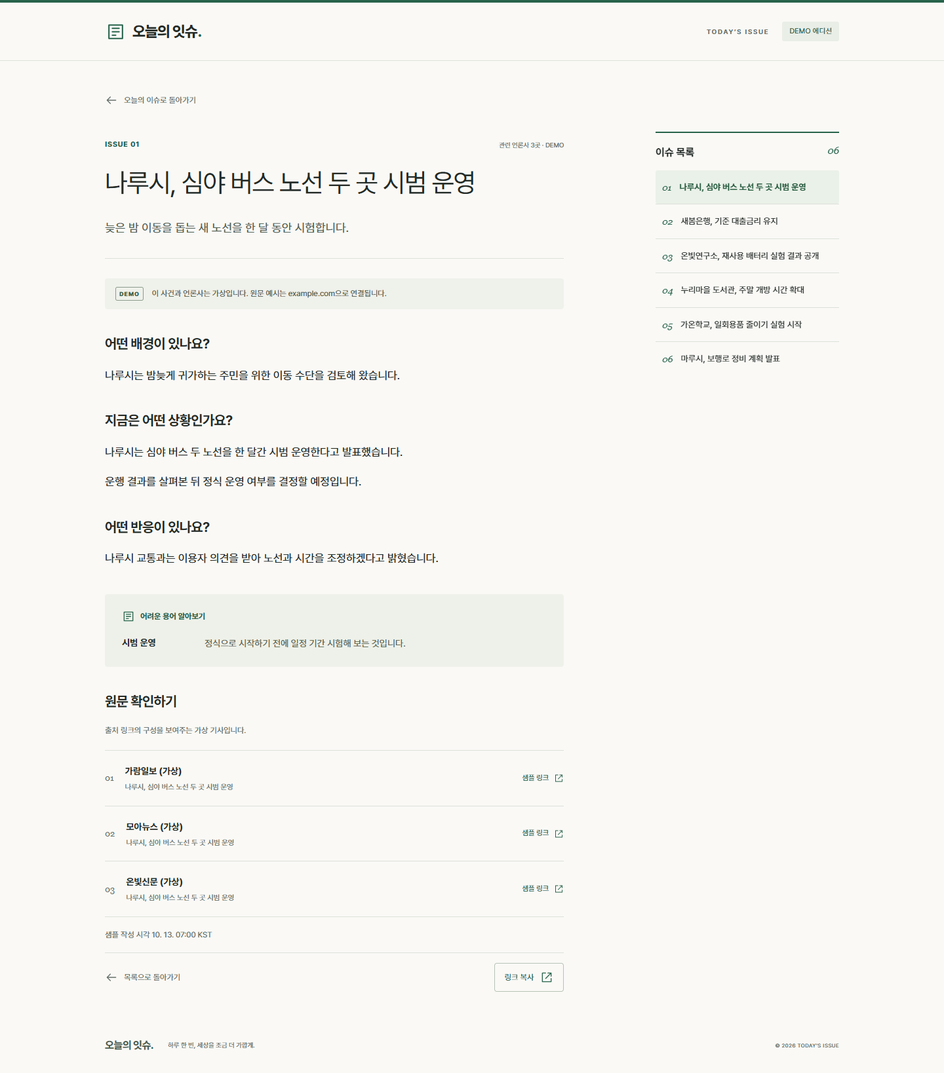
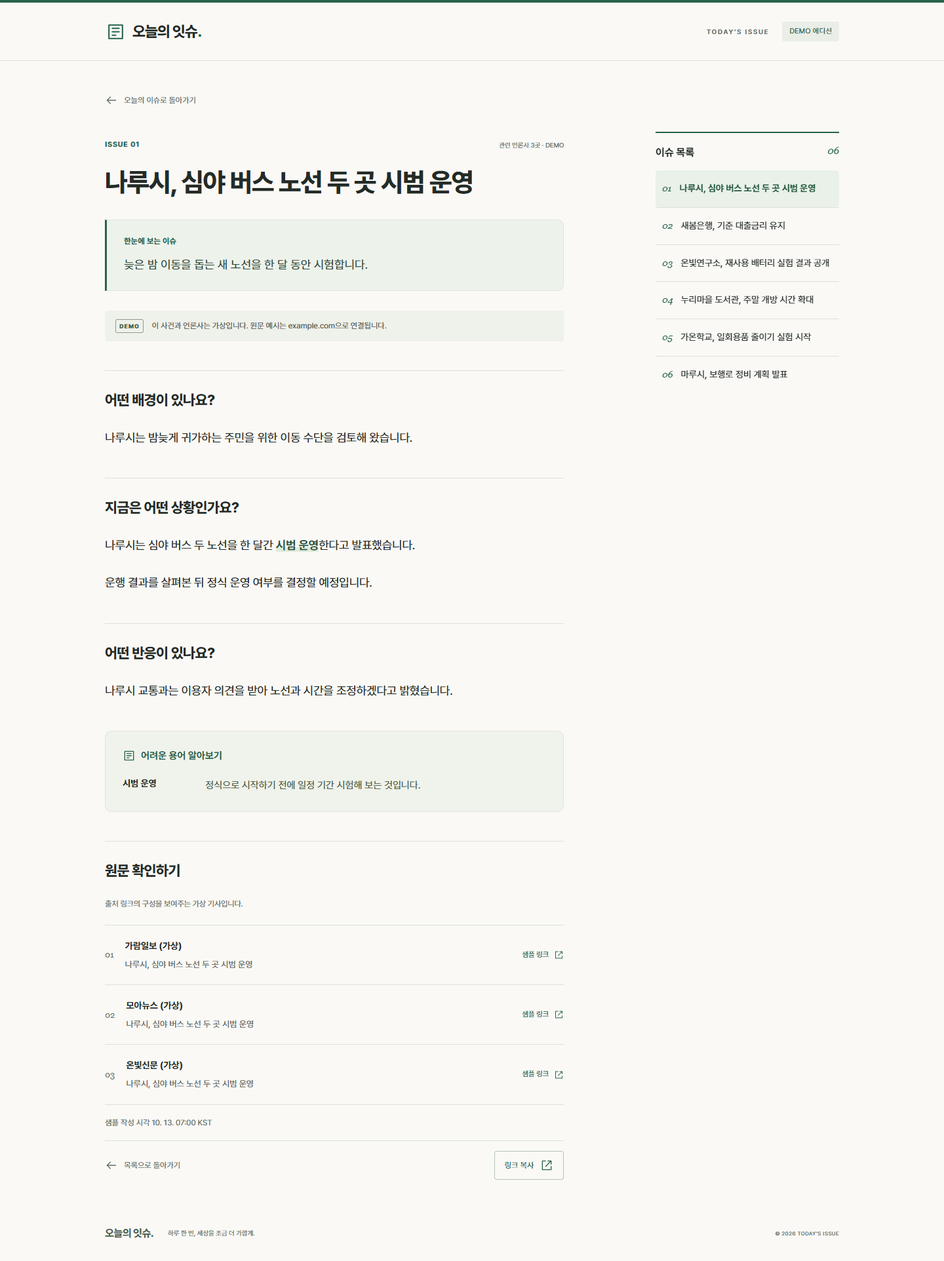
Improve article readability with summary panels, glossary emphasis, and clear attribution

diff --git a/src/styles.css b/src/styles.css
@@ -49,7 +49,7 @@ h1:focus, main:focus { outline: none; }
 .issue-number { font: italic 27px/1 Georgia, serif; color: var(--green); }
 .card-kicker { font-size: 8px; color: #646f66; letter-spacing: 1.2px; }
 .issue-card h3 { margin: 0 0 13px; font-size: 21px; font-weight: 700; line-height: 1.5; letter-spacing: -.8px; word-break: keep-all; overflow-wrap: anywhere; }
-.issue-card > p { font-size: 13px; line-height: 1.8; margin: 0 0 27px; color: var(--muted); word-break: keep-all; }
+.issue-card > p { font-size: 15px; line-height: 1.85; margin: 0 0 27px; color: #59665d; word-break: keep-all; overflow-wrap: anywhere; }
 .card-bottom { margin-top: auto; display: flex; align-items: center; justify-content: space-between; gap: 8px; padding-top: 16px; border-top: 1px solid #e7e9e2; color: var(--muted); font-size: 10px; }
 .card-bottom strong { font-weight: 600; color: #4c5a50; }
 .card-action { color: var(--green); display: flex; align-items: center; gap: 8px; }
@@ -69,14 +69,14 @@ h1:focus, main:focus { outline: none; }
 .detail-layout { display: grid; grid-template-columns: minmax(0, 700px) minmax(0, 280px); justify-content: space-between; gap: 64px; align-items: start; }
 .detail-layout .reading-shell { width: 100%; margin: 0; }
 .article-photo { margin: 0 0 32px; }
-.article-photo img { height: auto; max-height: 460px; object-fit: contain; border-radius: 4px; }
+.article-photo img { height: auto; max-height: 460px; object-fit: contain; border-radius: 10px; }
 .article-photo figcaption { margin-top: 8px; font-size: 11px; color: var(--muted); }
 .issue-sidebar { position: sticky; top: 28px; margin-top: 108px; border-top: 2px solid var(--green); padding-top: 18px; }
 .issue-sidebar h2 { display: flex; justify-content: space-between; margin: 0 0 15px; font-size: 16px; font-weight: 700; }
 .issue-sidebar h2 > span { color: var(--green); font: italic 15px Georgia, serif; }
 .issue-sidebar ol { list-style: none; margin: 0; padding: 0; }
 .issue-sidebar li + li { border-top: 1px solid var(--line); }
-.issue-sidebar a { display: flex; align-items: flex-start; gap: 12px; padding: 15px 10px; font-size: 13px; line-height: 1.65; word-break: keep-all; overflow-wrap: anywhere; border-radius: 3px; }
+.issue-sidebar a { display: flex; align-items: flex-start; gap: 12px; padding: 16px 10px; font-size: 14px; line-height: 1.7; word-break: keep-all; overflow-wrap: anywhere; border-radius: 5px; }
 .issue-sidebar a:hover { background: #f0f2eb; }
 .issue-sidebar a[aria-current="page"] { background: #eaf1e8; color: #23583c; font-weight: 650; }
 .sidebar-number { flex-shrink: 0; padding-top: 3px; color: var(--green); font: italic 14px Georgia, serif; }
@@ -87,29 +87,37 @@ h1:focus, main:focus { outline: none; }
 .article-header { margin: 38px 0 30px; }
 .article-header .eyebrow { justify-content: space-between; margin-bottom: 19px; font-size: 11px; }
 .article-meta { color: var(--muted); font-size: 10px; font-weight: 400; letter-spacing: 0; }
-.article-header h1 { font-size: clamp(28px, 4vw, 40px); line-height: 1.5; letter-spacing: -1.5px; margin: 0 0 23px; word-break: keep-all; }
-.article-lead { font-size: 18px; line-height: 1.8; color: #526356; margin: 0; padding-bottom: 30px; border-bottom: 1px solid var(--line); word-break: keep-all; }
+.article-header h1 { font-size: clamp(30px, 4vw, 40px); font-weight: 750; line-height: 1.45; letter-spacing: -1.3px; margin: 0 0 28px; word-break: keep-all; overflow-wrap: anywhere; text-wrap: balance; }
+.article-summary { padding: 23px 26px; background: #edf3eb; border: 1px solid #dce8db; border-left: 3px solid var(--green); border-radius: 0 10px 10px 0; }
+.summary-label { display: block; margin-bottom: 10px; font-size: 12px; font-weight: 700; letter-spacing: .2px; color: var(--green); }
+.article-lead { font-size: 18px; line-height: 1.85; color: #344c3b; margin: 0; word-break: keep-all; overflow-wrap: anywhere; }
 .detail-demo { margin-bottom: 33px; }
-.reading-section { margin-top: 37px; }
-.reading-section h2 { font-size: 21px; font-weight: 700; margin: 0 0 17px; letter-spacing: -.6px; }
-.reading-section p { font-size: 17px; line-height: 1.85; margin: 0 0 14px; word-break: keep-all; overflow-wrap: anywhere; }
+.reading-section { margin-top: 44px; padding-top: 28px; border-top: 1px solid var(--line); }
+.reading-section h2 { font-size: 22px; line-height: 1.5; font-weight: 750; margin: 0 0 23px; letter-spacing: -.6px; word-break: keep-all; }
+.reading-section p { font-size: 18px; line-height: 1.95; margin: 0; word-break: keep-all; overflow-wrap: anywhere; letter-spacing: -.2px; }
+.statement-stack { display: grid; gap: 22px; }
+.statement-claim { padding: 20px 23px; background: #f1f3ed; border-radius: 10px; border-left: 2px solid #9cb69e; }
+.claim-meta { display: flex; align-items: baseline; gap: 9px; margin-bottom: 11px; color: #56644f; font-size: 12px; line-height: 1.7; word-break: keep-all; overflow-wrap: anywhere; }
+.term-emphasis { font-weight: 650; color: #28543c; box-shadow: inset 0 -.4em #e0ebdb; }
+.article-summary .term-emphasis { box-shadow: none; font-weight: 700; }
 .citations { display: inline-flex; gap: 3px; vertical-align: baseline; margin-left: 5px; }
 .citations a { color: var(--green); font-size: 10px; font-weight: 600; padding: 3px; text-decoration: underline; text-underline-offset: 2px; }
-.claim-tag { display: inline; font-size: 11px; background: #edf1e9; color: #466044; padding: 3px 6px; margin-right: 7px; border-radius: 3px; }
-.terminology { background: #eef1e9; border-radius: 4px; padding: 24px 26px; margin-top: 38px; }
-.terminology .eyebrow { margin-bottom: 20px; font-size: 12px; letter-spacing: 0; }
+.claim-tag { display: inline-block; flex-shrink: 0; font-size: 11px; font-weight: 700; background: #e0e8db; color: #3e583c; padding: 2px 7px; border-radius: 4px; }
+.terminology { background: #f0f3eb; border: 1px solid #e0e7da; border-radius: 10px; padding: 26px; margin-top: 44px; }
+.terminology h2 { display: flex; align-items: center; gap: 8px; margin: 0 0 21px; font-size: 15px; font-weight: 700; color: var(--green); }
 .terminology dl { margin: 0; }
-.terminology dl > div { display: grid; grid-template-columns: 110px 1fr; gap: 16px; margin-bottom: 13px; }
-.terminology dl > div:last-child { margin-bottom: 0; }
+.terminology dl > div { display: grid; grid-template-columns: 110px 1fr; gap: 16px; padding-bottom: 17px; margin-bottom: 17px; border-bottom: 1px solid #dce4d5; }
+.terminology dl > div:last-child { margin-bottom: 0; padding-bottom: 0; border: 0; }
 .terminology dt { font-size: 14px; font-weight: 650; }
-.terminology dd { margin: 0; font-size: 14px; line-height: 1.7; color: #586452; }
+.terminology dd { margin: 0; font-size: 15px; line-height: 1.8; color: #4e5d49; word-break: keep-all; overflow-wrap: anywhere; }
 .sources-section .section-description { font-size: 12px; color: var(--muted); margin-bottom: 19px; }
 .source-list { border-top: 1px solid var(--line); }
 .source-link { display: flex; align-items: center; gap: 17px; padding: 19px 0; border-bottom: 1px solid var(--line); }
 .source-link:hover { background: #f2f3ed; }
 .source-index { font: 13px Georgia, serif; color: var(--muted); }
 .source-link strong { font-size: 14px; font-weight: 650; }
-.source-title { display: block; font-size: 11px; color: var(--muted); line-height: 1.6; margin-top: 4px; }
+.source-title { display: block; font-size: 13px; color: #59665d; line-height: 1.8; margin-top: 5px; word-break: keep-all; overflow-wrap: anywhere; }
+.source-link > span:nth-child(2) { min-width: 0; }
 .source-open { margin-left: auto; flex-shrink: 0; display: flex; align-items: center; gap: 8px; font-size: 11px; color: var(--green); }
 .source-open svg { width: 15px; }
 .ranking-details { margin: 27px 0 36px; color: var(--muted); font-size: 12px; }
@@ -137,3 +145,15 @@ h1:focus, main:focus { outline: none; }
 @media (max-width: 1023px) { .hero h1 { font-size: 39px; } .shell { width: calc(100% - 56px); } .issue-card { min-height: 270px; } }
 @media (max-width: 639px) { .shell { width: calc(100% - 40px); } .header-inner { height: 72px; } .brand { font-size: 21px; } .edition-label { display: none; } .mode-tag { font-size: 10px; } .hero { padding: 38px 0 27px; } .hero h1 { font-size: 29px; letter-spacing: -1.5px; } .hero .eyebrow { font-size: 10px; margin-bottom: 17px; } .hero-description { font-size: 12px; margin-top: 16px; } .mobile-break { display: block; } .date-block { display: none; } .demo-notice { align-items: flex-start; gap: 10px; padding: 12px; margin-bottom: 27px; } .demo-notice p { font-size: 11px; } .section-heading { align-items: flex-start; gap: 8px; padding-top: 21px; flex-direction: column; } .section-heading h2 { font-size: 18px; } .reading-time { font-size: 10px; } .issue-card { padding: 25px 23px 20px; min-height: 260px; } .card-top { margin-bottom: 21px; } .issue-card h3 { font-size: 21px; } .issue-card > p { font-size: 14px; } .card-bottom { font-size: 11px; } .edition-meta { flex-direction: column; line-height: 1.5; font-size: 10px; } .editorial-note { margin-block: 35px; gap: 14px; padding-block: 25px; } .editorial-note h2 { font-size: 15px; } .editorial-note p { font-size: 11px; } .note-symbol { font-size: 48px; } .note-wordmark { display: none; } .site-footer { flex-wrap: wrap; gap: 10px 15px; } .site-footer > span { width: 100%; margin: 0; } .reading-shell { padding-top: 21px; } .article-header { margin-top: 27px; } .article-header h1 { font-size: 29px; letter-spacing: -.9px; } .article-lead { font-size: 16px; } .reading-section h2 { font-size: 19px; } .reading-section p { font-size: 16px; } .terminology { padding: 21px 19px; } .terminology dl > div { grid-template-columns: 1fr; gap: 5px; } .source-link { gap: 10px; } .source-title { font-size: 10px; } .source-open { font-size: 10px; gap: 4px; } .state-panel h1 { font-size: 26px; } }
 @media (prefers-reduced-motion: reduce) { *, *::before, *::after { transition: none !important; scroll-behavior: auto !important; } }
+@media (max-width: 639px) {
+  .issue-card > p { font-size: 15px; line-height: 1.85; }
+  .article-summary { padding: 19px 20px; }
+  .article-lead { font-size: 17px; line-height: 1.85; }
+  .reading-section { margin-top: 34px; padding-top: 23px; }
+  .reading-section h2 { font-size: 20px; margin-bottom: 19px; }
+  .reading-section p { font-size: 17px; line-height: 1.95; }
+  .statement-stack { gap: 19px; }
+  .statement-claim { padding: 17px 18px; }
+  .claim-meta { align-items: flex-start; font-size: 11px; }
+  .source-title { font-size: 12px; line-height: 1.8; }
+}

diff --git a/src/pages/IssuePage.tsx b/src/pages/IssuePage.tsx
@@ -4,26 +4,32 @@ import { formatTime, publisherCount } from '../lib/data';
 import { Icon } from '../components/Icon';
 import { SourceLinks } from '../components/SourceLinks';
 import { ArticlePhoto } from '../components/ArticlePhoto';
+import { TermEmphasis } from '../components/TermEmphasis';
 
-function ReadingSection({ title, statements }: { title: string; statements: Statement[] }) {
+function ReadingSection({ title, statements, terms }: { title: string; statements: Statement[]; terms: string[] }) {
   if (!statements.length) return null;
-  return <section className="reading-section"><h2>{title}</h2>{statements.map(statement => <p key={statement.id}>{statement.kind === 'claim' && <span className="claim-tag">{statement.attribution}의 주장</span>}{statement.text}</p>)}</section>;
+  return <section className="reading-section"><h2>{title}</h2><div className="statement-stack">{statements.map(statement =>
+    <div key={statement.id} className={statement.kind === 'claim' ? 'statement statement-claim' : 'statement'}>
+      {statement.kind === 'claim' && <div className="claim-meta"><span className="claim-tag">주장</span><span>{statement.attribution}</span></div>}
+      <p><TermEmphasis text={statement.text} terms={terms} /></p>
+    </div>)}</div></section>;
 }
 export function IssuePage({ issue, edition }: { issue: Issue; edition: Edition }) {
   const [copyStatus, setCopyStatus] = useState('');
+  const terms = issue.terminology.map(item => item.term);
   async function copyLink() {
     try { await navigator.clipboard.writeText(location.href); setCopyStatus('링크를 복사했습니다.'); }
     catch { setCopyStatus('주소창의 URL을 복사해 공유할 수 있습니다.'); }
   }
   return <div className="detail-layout shell"><article className="reading-shell">
     <a href="#/" className="back-link"><Icon name="back" />오늘의 이슈로 돌아가기</a>
-    <header className="article-header"><p className="eyebrow">ISSUE {String(issue.rank).padStart(2, '0')}<span className="article-meta">관련 언론사 {publisherCount(issue)}곳{edition.mode === 'demo' && ' · DEMO'}</span></p><h1 id="page-title" tabIndex={-1}>{issue.title}</h1><p className="article-lead">{issue.oneLineSummary}</p></header>
+    <header className="article-header"><p className="eyebrow">ISSUE {String(issue.rank).padStart(2, '0')}<span className="article-meta">관련 언론사 {publisherCount(issue)}곳{edition.mode === 'demo' && ' · DEMO'}</span></p><h1 id="page-title" tabIndex={-1}>{issue.title}</h1><div className="article-summary"><span className="summary-label">한눈에 보는 이슈</span><p className="article-lead"><TermEmphasis text={issue.oneLineSummary} terms={terms} /></p></div></header>
     <ArticlePhoto issue={issue} detail />
     {edition.mode === 'demo' && <aside className="demo-notice detail-demo"><span className="notice-label">DEMO</span><p>이 사건과 언론사는 가상입니다. 원문 예시는 example.com으로 연결됩니다.</p></aside>}
-    <ReadingSection title="어떤 배경이 있나요?" statements={issue.background} />
-    <ReadingSection title="지금은 어떤 상황인가요?" statements={issue.currentSituation} />
-    <ReadingSection title="어떤 반응이 있나요?" statements={issue.response} />
-    {issue.terminology.length > 0 && <section className="terminology"><p className="eyebrow"><Icon name="book" />어려운 용어 알아보기</p><dl>{issue.terminology.map(term => <div key={term.term}><dt>{term.term}</dt><dd>{term.explanation}</dd></div>)}</dl></section>}
+    <ReadingSection title="어떤 배경이 있나요?" statements={issue.background} terms={terms} />
+    <ReadingSection title="지금은 어떤 상황인가요?" statements={issue.currentSituation} terms={terms} />
+    <ReadingSection title="어떤 반응이 있나요?" statements={issue.response} terms={terms} />
+    {issue.terminology.length > 0 && <section className="terminology"><h2><Icon name="book" />어려운 용어 알아보기</h2><dl>{issue.terminology.map(term => <div key={term.term}><dt>{term.term}</dt><dd>{term.explanation}</dd></div>)}</dl></section>}
     <section className="reading-section sources-section"><h2>원문 확인하기</h2><p className="section-description">{edition.mode === 'demo' ? '출처 링크의 구성을 보여주는 가상 기사입니다.' : '서로 다른 보도를 직접 읽고 맥락을 확인해 보세요.'}</p><SourceLinks sources={issue.sources} demo={edition.mode === 'demo'} /></section>
     <p className="small-note">{edition.mode === 'demo' ? '샘플 작성 시각' : '마지막 업데이트'} {formatTime(edition.updatedAt)} KST</p><div className="article-bottom"><a href="#/" className="back-link"><Icon name="back" />목록으로 돌아가기</a><button onClick={copyLink} className="copy-button">링크 복사 <Icon name="external" /></button></div><p className="copy-status" role="status">{copyStatus}</p>
   </article><nav className="issue-sidebar" aria-label="이슈 목록">

diff --git a/src/pages/HomePage.tsx b/src/pages/HomePage.tsx
@@ -12,7 +12,7 @@ export function HomePage({ edition }: { edition: Edition }) {
     <section className="issues-section" aria-labelledby="issues-title">
       <div className="section-heading"><h2 id="issues-title">{edition.mode === 'demo' ? '오늘의 이슈 미리보기' : '오늘의 주요 보도 이슈'} <span>{String(edition.issues.length).padStart(2, '0')}</span></h2><span className="reading-time"><Icon name="clock" />목표 읽기 시간 약 5분</span></div>
       {edition.issues.length > 0 ? <div className="grid grid-cols-1 md:grid-cols-2 lg:grid-cols-3 gap-5 issue-grid">{edition.issues.map(issue => <IssueCard key={issue.id} issue={issue} />)}</div> : <div className="empty-state"><Icon name="book" /><h3>아직 준비된 이슈가 없습니다</h3><p>확인할 수 있는 이슈가 모이면 이곳에 전해드릴게요.</p></div>}
-      <div className="edition-meta"><span>{edition.mode === 'demo' ? '샘플 작성 시각' : '마지막 업데이트'} <time dateTime={edition.updatedAt}>{formatTime(edition.updatedAt)} KST</time></span><span>하루 한 번, 오전 7시에 만나요.</span></div>
+      <div className="edition-meta"><span>{edition.mode === 'demo' ? '샘플 작성 시각' : '마지막 업데이트'} <time dateTime={edition.updatedAt}>{formatTime(edition.updatedAt)} KST</time></span><span>{windowLabel(edition)} · {edition.mode === 'demo' ? '가상 이슈 미리보기' : '최신 기사 발행 순'}</span></div>
     </section>
     <section className="editorial-note" aria-label="편집 원칙"><span className="note-symbol">“</span><div><h2>많이 읽는 것보다, 잘 이해하는 것.</h2><p>같은 사건은 하나로 모으고, 어려운 말은 풀어서 설명합니다.<br />사실과 주장을 구분하고, 모든 이야기의 출처를 함께 전합니다.</p></div><span className="note-wordmark">LESS NEWS.<br />MORE CONTEXT.</span></section>
   </div>;

diff --git a/src/components/TermEmphasis.tsx b/src/components/TermEmphasis.tsx
@@ -1,0 +1,16 @@
+export function TermEmphasis({ text, terms }: { text: string; terms: string[] }) {
+  const unique = [...new Set(terms.map(term => term.trim()).filter(term => term.length >= 2))]
+    .sort((a, b) => b.length - a.length).slice(0, 10);
+  if (!unique.length) return <>{text}</>;
+  const escape = (term: string) => term.replace(/[.*+?^${}()|[\]\\]/g, '\\$&');
+  const pattern = new RegExp(`(${unique.map(term => /^[\w .()-]+$/.test(term)
+    ? `(?<![A-Za-z0-9])${escape(term)}(?![A-Za-z0-9])` : escape(term)).join('|')})`, 'g');
+  const highlighted = new Set<string>();
+  return <>{text.split(pattern).map((part, index) => {
+    if (unique.includes(part) && !highlighted.has(part) && highlighted.size < 3) {
+      highlighted.add(part);
+      return <strong className="term-emphasis" key={index}>{part}</strong>;
+    }
+    return part;
+  })}</>;
+}

diff --git a/src/components/TermEmphasis.test.tsx b/src/components/TermEmphasis.test.tsx
@@ -1,0 +1,10 @@
+import { render } from '@testing-library/react';
+import { expect, test } from 'vitest';
+import { TermEmphasis } from './TermEmphasis';
+
+test('glossary emphasis preserves the complete text, literal symbols and other words', () => {
+  const text = 'AI는 AIB와 다르며 C++처럼 기호가 있는 용어도 그대로 읽습니다. AI를 다시 언급합니다.';
+  const { container } = render(<p><TermEmphasis text={text} terms={['AI', 'C++']} /></p>);
+  expect(container.textContent).toBe(text);
+  expect([...container.querySelectorAll('strong')].map(node => node.textContent)).toEqual(['AI', 'C++']);
+});

diff --git a/docs/READABILITY_UPDATE.md b/docs/READABILITY_UPDATE.md
@@ -1,0 +1,42 @@
+# 오늘의 잇슈 — 글 가독성 개선과 최신 버전 반영
+
+기준일: 2026-10-15 KST
+
+[실제 사이트](https://today-issue-dlwo8520.pages.dev)에 글 가독성을 개선한 화면과 오늘 기준으로 새로 수집·검증한 이슈 6개, 첫 원문 사진 6개를 반영했습니다. 기존 이메일 입력 입장과 상세 오른쪽 이슈 목록을 유지했습니다.
+
+## 화면 변경
+
+- 상세 제목의 굵기와 줄바꿈을 다듬고 요약을 “한눈에 보는 이슈” 박스로 구분했습니다.
+- 본문을 PC 18px·모바일 17px, 줄 간격 1.95로 조정했습니다. 문단·섹션 여백과 구분선을 정리했습니다.
+- 이미 정의된 용어만 원문에 나타난 그대로 강조합니다. 문단마다 같은 용어를 반복 강조하지 않으며 최대 3개를 표시합니다.
+- 주장은 별도 배경과 “주장” 표시로 구분하고, 제공된 주장 주체를 별도 줄로 표시합니다. 요약문을 직접 인용문처럼 보이게 만들지 않습니다.
+- 용어 설명을 제목이 있는 영역으로 바꾸고, 원문 기사 제목·홈 카드 설명·오른쪽 목록의 글자 크기를 키웠습니다.
+- 실제 예약 발행이 아직 활성화되지 않아 홈의 고정된 오전 7시 안내를 수집 범위·정렬 기준으로 바꿨습니다.
+
+글의 사실·수치·문장·출처 참조를 화면 편집 과정에서 다시 작성하지 않았습니다. 용어 강조는 React 텍스트 노드로 처리합니다.
+
+## 최신 뉴스와 배포
+
+- 새 에디션 갱신: 2026-10-15 11:21 KST
+- 수집 이력 포함 673건 → 분석 667건 → 628그룹 → 적격 후보 29개 → 검증 통과 6개
+- 최근 2주·최신 기사 발행 순·최대 6개, 첫 원문 사진 6개
+- 배포 ID: `6b31594e-d865-47e9-9021-28dab35cd42c`
+- 실제 사이트의 결과 JSON과 빌드 입력이 일치함을 확인
+
+실제 뉴스 JSON·사진 URL·Live 캡처·API 키는 GitHub 소스와 전달 ZIP에서 제외합니다. `docs/screenshots`에는 새 화면의 가상 DEMO 캡처만 저장합니다.
+
+## 검증
+
+| 항목 | 결과 |
+|---|---|
+| 프론트 Vitest | 21개 통과; 용어 강조 후 전체 문장·기호·다른 단어 보존 검사 포함 |
+| TypeScript·개인용 및 공개 DEMO 빌드 | 통과 |
+| DEMO 프로덕션 브라우저 | PC·태블릿·모바일·키보드·오류 복구 5개 통과 |
+| 실제 Cloudflare Live 브라우저 | 이메일 입력·PC/모바일·사진 6개·상세 새로고침·이슈 목록·원문·접근성 1개 통과 |
+| 육안 확인 | 실제 Live PC·모바일 상세 캡처 확인 |
+
+Python과 입장 서버 코드는 이번 화면 변경에서 수정하지 않았습니다. 전체 소스의 원격 CI와 전달 파일의 키 제외 검사를 별도로 확인합니다. 같은 브라우저 검사의 반복 실행은 고유 테스트 수에 더하지 않습니다.
+
+## 운영 상태
+
+이번 버전은 직접 Cloudflare에 배포했습니다. GitHub 자동 갱신은 Secrets 등록이 남아 있어 활성화하지 않았습니다. 현재 실행 절차는 [개인용 운영 안내](CLOUDFLARE_PRIVATE_SETUP.md)를 따릅니다.

diff --git a/docs/CLOUDFLARE_PRIVATE_SETUP.md b/docs/CLOUDFLARE_PRIVATE_SETUP.md
@@ -1,6 +1,6 @@
 # 오늘의 잇슈 — 사진과 이메일 입력 입장
 
-기준일: 2026-10-14 KST
+기준일: 2026-10-15 KST
 
 **접속 주소: [오늘의 잇슈](https://today-issue-dlwo8520.pages.dev)**
 
@@ -17,9 +17,9 @@
 
 ## 실제 데이터와 검증
 
-2026-10-14 17:33 KST에 새 수집을 시작하여 이력 포함 451건 → 분석 440건 → 413그룹 → 적격 후보 17개 → 검증 통과 6개를 생성했습니다. 에디션 갱신 시각은 17:35 KST입니다. 최근 2주·최신 기사 발행 순·최대 6개 설정을 유지했습니다.
+2026-10-15 새 수집과 이력을 함께 분석하여 673건 → 분석 667건 → 628그룹 → 적격 후보 29개 → 검증 통과 6개를 생성했습니다. 에디션 갱신 시각은 11:21 KST입니다. 최근 2주·최신 기사 발행 순·최대 6개 설정을 유지했습니다. [글 가독성 개선](READABILITY_UPDATE.md)도 함께 반영했습니다.
 
-현재 배포 ID는 `52cfcbf5-8351-43bd-a577-c22148734c10`입니다. 실제 결과 JSON과 사진 URL은 소스 저장소에 넣지 않습니다. 수집과 JSON의 범위는 `local_private`를 유지하며 이 메타데이터를 본인 인증의 보장으로 해석하지 않습니다.
+현재 배포 ID는 `6b31594e-d865-47e9-9021-28dab35cd42c`입니다. 실제 결과 JSON과 사진 URL은 소스 저장소에 넣지 않습니다. 수집과 JSON의 범위는 `local_private`를 유지하며 이 메타데이터를 본인 인증의 보장으로 해석하지 않습니다.
 
 Python 112개·이메일 입장 서버 8개·실제 주소 Live 브라우저 1개가 통과했습니다. 실제 서버에서 지정 이메일 입장·다른 이메일 거부·입력 전 JSON 차단·위조 쿠키 차단과 원격 데이터 일치를 확인했습니다. 브라우저에서는 이메일 입력부터 PC·모바일 뉴스·사진·상세 URL·목록 이동·접근성까지 확인했습니다.
 

diff --git a/docs/PHASE_1_REPORT.md b/docs/PHASE_1_REPORT.md
@@ -2,6 +2,8 @@
 
 작성일: 2026-10-13 · 기준 시간대: Asia/Seoul
 
+> 최신 후속 작업(2026-10-15): 글의 제목·요약 박스·문단·용어·주장 주체 표시를 다듬고 오늘 기준 이슈 6개와 사진 6개를 Cloudflare에 반영했습니다. 프론트 21개·DEMO 브라우저 5개·실제 주소 Live 브라우저 1개와 빌드를 통과했습니다. [가독성 개선과 최신 배포](READABILITY_UPDATE.md).
+
 > 후속 작업: 2026-10-14 Cloudflare에 실제 이슈 6개·첫 원문 사진 6개를 배포했습니다. 새 수집은 451건 → 분석 440건 → 413그룹 → 적격 후보 17개 → 검증 통과 6개입니다. 요청에 따라 메일 인증 없이 지정 이메일 입력으로 입장하며 서버 이메일 비교와 서명 쿠키를 적용했습니다. 이는 본인 인증이 아니므로 같은 이메일을 아는 사람도 입장할 수 있습니다. Python 112개·입장 서버 8개·실제 주소 Live 브라우저 1개가 통과했습니다. 자동 갱신은 GitHub Secrets 미등록으로 대기 상태입니다. [현재 운영](CLOUDFLARE_PRIVATE_SETUP.md), [뉴스 이용 조건](NEWS_USAGE_REVIEW.md). 아래 내용은 2026-10-13 1차 개발 당시의 기록입니다.
 
 **현재까지 React 뉴스 화면, GNews·NewsData·OpenAI 실제 연동, 최근 2주 복수 출처 이슈의 최신순 최대 6개 선정, 원문 사진과 상세 이동 목록을 구현하고 로컬 Live 검증을 완료했습니다.** 이 문서는 최초 기획부터 현재 수정 사항까지의 전체 기록입니다. 1차 GitHub 전달 범위는 소스·설정 예시·DEMO·테스트·문서입니다. 실제 뉴스와 사진이 포함된 비공개 Live 결과의 공개 서비스 전환은 별도 운영 단계입니다.

diff --git a/docs/VALIDATION.md b/docs/VALIDATION.md
@@ -1,5 +1,7 @@
 # 실행 검증 기록
 
+> 2026-10-15 가독성 개선: 프론트 21개·DEMO 프로덕션 브라우저 5개·실제 Cloudflare Live 브라우저 1개 통과, TypeScript 및 두 배포 모드 빌드 성공. 오늘 새로 생성한 이슈·첫 원문 사진 6개, 이메일 입력·PC/모바일·원문·상세 이동·접근성과 배포 JSON 일치를 확인했습니다. [변경·검증 상세](READABILITY_UPDATE.md).
+
 > 현재 개인용 Live 검증(2026-10-14): Python 112개·서버 이메일 입장 8개 통과, Ruff·TypeScript·개인용 빌드 성공. 실제 Cloudflare 주소에서 이메일 입력·사진 6개·PC/모바일·상세 이동·접근성 Live 브라우저 1개 통과. 입력 전·위조 쿠키는 입장 화면으로 이동하고 다른 이메일은 403, 지정 이메일은 인증번호 없이 입장하여 원격 JSON과 로컬 빌드의 일치를 확인했습니다. 프론트 20개·DEMO 브라우저 5개는 앞선 검증이며 반복 실행을 고유 개수에 더하지 않습니다. [현재 운영](CLOUDFLARE_PRIVATE_SETUP.md).
 
 > 2026-10-14 Cloudflare 공개 빌드 변경 검증: Python 100개·프론트 20개·공개 DEMO 프로덕션 브라우저 5개 통과, TypeScript·빌드·Ruff 성공. [원격 CI](https://github.com/dlwo8520/today-issue/actions/runs/38499480332)도 성공했습니다. 직접 Cloudflare 배포 후 [실제 공개 주소](https://today-issue-dlwo8520.pages.dev)에서도 브라우저 5개를 통과했습니다. 반복 실행은 고유 검사 수에 더하지 않습니다. 실제 Live 브라우저 1개는 아래 1차 단계의 검증이며 이번 공개 빌드 작업에서 다시 실행하지 않았습니다. [현재 배포 안내](CLOUDFLARE_SETUP.md).

diff --git a/docs/LIVE_LAUNCH_CHECKLIST.md b/docs/LIVE_LAUNCH_CHECKLIST.md
@@ -1,6 +1,6 @@
 # 오늘의 잇슈 — 실제 운영 준비 체크리스트
 
-> 2026-10-14 Cloudflare Pages에 [DEMO 6개를 실제 공개](https://today-issue-dlwo8520.pages.dev)했습니다. 두 뉴스 API 모두 무료 플랜이라고 사용자가 확인했으며 GitHub Secrets는 미등록입니다. 실제 뉴스·사진 공개와 자동 갱신은 대기 상태입니다. [현재 실행·계정 연결 안내](CLOUDFLARE_SETUP.md), [뉴스 이용 조건](NEWS_USAGE_REVIEW.md). 아래 체크리스트는 2026-10-13 초기 계획이며 GitHub Pages·ENABLE_PAGES 항목은 이력입니다.
+> 현재(2026-10-15)는 Cloudflare에 실제 이슈 6개·사진 6개를 배포했으며 지정 이메일 입력으로 입장합니다. [최신 화면과 검증](READABILITY_UPDATE.md), [실제 운영 안내](CLOUDFLARE_PRIVATE_SETUP.md). GitHub 자동 갱신은 Secrets 등록이 남아 있습니다. 아래 체크리스트는 2026-10-13 초기 계획이며 GitHub Pages·ENABLE_PAGES 항목은 이력입니다.
 
 기준일: 2026-10-13 KST. 현재 최근 2주·최신순 최대 6개, 첫 원문 사진과 상세 이동 목록을 구현하고 실제 API·로컬 Live 검증을 완료했습니다. 이 체크리스트는 공개 운영에 필요한 준비와 남은 검증을 관리합니다. [전체 1차 기록](PHASE_1_REPORT.md)
 
